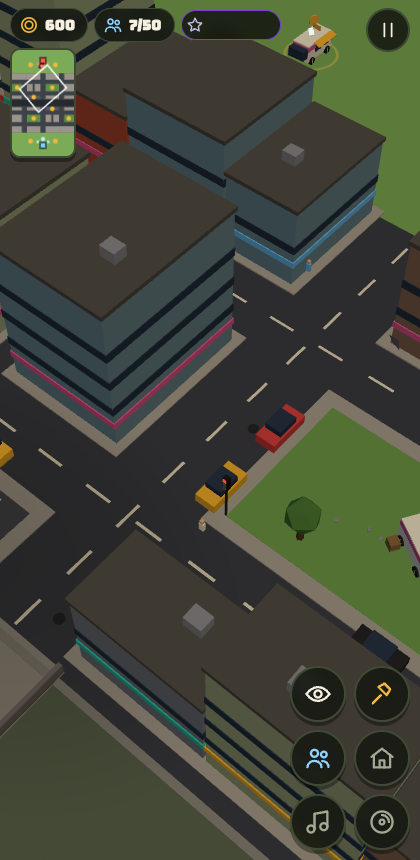
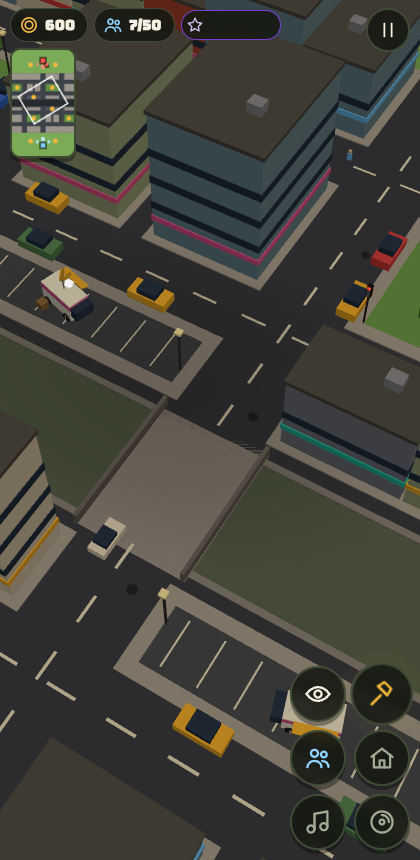
B119: Menu backdrop: while the menu is up (on load and after quitting/finishing a match), the camera eases to the city centre, pulls out and slowly circles it, so the live city turns behind the faction cards
Claude-Session: https://claude.ai/code/session_01FXzpagnksiDmMAqP3MTiXJ

diff --git a/src/main.js b/src/main.js
@@ -1,22 +1,22 @@
 // Entry point: wires sim + render + input + UI and runs the fixed-step loop.
-import { renderer, scene, camera, followSun, THREE, setTimeOfDay, sun } from './render/scene.js?v=118';
-import { buildWorld, updateWorld, setDusk, setRain, setLowWorld } from './render/world.js?v=118';
-import { syncRender, clearRender, bump } from './render/sync.js?v=118';
-import { handleEvents, updateFx, clearFx } from './fx/fx.js?v=118';
-import { newSim, getSim, step } from './sim/sim.js?v=118';
-import { TICK } from './config/factions.js?v=118';
-import { CAM, applyCam, resetCam, onResize } from './camera/camera.js?v=118';
-import { initInput, lockPageZoom } from './input/input.js?v=118';
-import { refreshHUD, resetHUD, updatePlaceBar } from './ui/hud.js?v=118';
-import { resetUI } from './ui/state.js?v=118';
-import { fillIcons, svg } from './ui/icons.js?v=118';
-import { noteAlerts, updateAlert, clearAlert } from './ui/alert.js?v=118';
-import { updateMinimap } from './ui/minimap.js?v=118';
-import { isMuted, setMuted } from './fx/sfx.js?v=118';
-import { loadChars } from './render/chars.js?v=118';
-import { FC } from './render/models.js?v=118';
+import { renderer, scene, camera, followSun, THREE, setTimeOfDay, sun } from './render/scene.js?v=119';
+import { buildWorld, updateWorld, setDusk, setRain, setLowWorld } from './render/world.js?v=119';
+import { syncRender, clearRender, bump } from './render/sync.js?v=119';
+import { handleEvents, updateFx, clearFx } from './fx/fx.js?v=119';
+import { newSim, getSim, step } from './sim/sim.js?v=119';
+import { TICK } from './config/factions.js?v=119';
+import { CAM, applyCam, resetCam, onResize } from './camera/camera.js?v=119';
+import { initInput, lockPageZoom } from './input/input.js?v=119';
+import { refreshHUD, resetHUD, updatePlaceBar } from './ui/hud.js?v=119';
+import { resetUI } from './ui/state.js?v=119';
+import { fillIcons, svg } from './ui/icons.js?v=119';
+import { noteAlerts, updateAlert, clearAlert } from './ui/alert.js?v=119';
+import { updateMinimap } from './ui/minimap.js?v=119';
+import { isMuted, setMuted } from './fx/sfx.js?v=119';
+import { loadChars } from './render/chars.js?v=119';
+import { FC } from './render/models.js?v=119';
 
-export const BUILD = 118; // written by `npm run bump`
+export const BUILD = 119; // written by `npm run bump`
 lockPageZoom();
 fillIcons();
 buildWorld();
@@ -173,6 +173,8 @@ function frame(now) {
   if (hudT <= 0) { hudT = 0.15; refreshHUD(); }
   cinema(dt);
   introCam(dt);
+  // Menu backdrop: while the menu is up, the camera drifts to the city centre and slowly circles it.
+  if (!running && !menu.hidden) { cin = null; const k = Math.min(1, dt * 0.6); CAM.tx += (0 - CAM.tx) * k; CAM.tz += (0 - CAM.tz) * k; CAM.distT = 95; CAM.yaw += dt * 0.07; }
   // The day wears on: morning at the start, golden hour by ~11 minutes in; lamps and windows come on in the last half.
   if (S && running) { const k = Math.min(1, Math.max(0, (S.t - 60) / 600)); if (Math.abs(k - (frame.tod ?? -1)) > 0.002) { frame.tod = k; setTimeOfDay(k); setDusk(Math.max(0, k * 2 - 1)); } }
   else if (!S && frame.tod) { frame.tod = 0; setTimeOfDay(0); setDusk(0); }

diff --git a/index.html b/index.html
@@ -6,7 +6,7 @@
 <meta name="viewport" content="width=device-width,initial-scale=1,maximum-scale=1,user-scalable=no,viewport-fit=cover">
 <link rel="preconnect" href="https://fonts.googleapis.com">
 <link rel="stylesheet" href="https://fonts.googleapis.com/css2?family=Bungee&family=Lilita+One&display=swap">
-<link rel="stylesheet" href="./src/ui/style.css?v=118">
+<link rel="stylesheet" href="./src/ui/style.css?v=119">
 <!-- No build step needed: GitHub Pages serves this file straight from main, so bare 'three' imports resolve here. -->
 <script type="importmap">
 { "imports": { "three": "./vendor/three/three.module.min.js", "three/examples/jsm/": "./vendor/three/jsm/" } }
@@ -35,7 +35,7 @@
 <div id="box"></div>
 <div id="holdRing" hidden></div>
 <div id="menu" class="overlay">
-  <h1>Culture <em>Wars</em><span>GREYBOX 04 · <b id="build">B118</b></span></h1>
+  <h1>Culture <em>Wars</em><span>GREYBOX 04 · <b id="build">B119</b></span></h1>
   <div class="diff" id="diff"><button type="button" data-d="0" aria-label="Easy"><span class="ic" data-i="star"></span></button><button type="button" data-d="1" class="on" aria-label="Normal"><span class="ic" data-i="star"></span><span class="ic" data-i="star"></span></button><button type="button" data-d="2" aria-label="Hard"><span class="ic" data-i="star"></span><span class="ic" data-i="star"></span><span class="ic" data-i="star"></span></button><i class="sep"></i><button type="button" class="mode" data-m="vs" aria-label="Versus"><span class="ic" data-i="home"></span></button><button type="button" class="mode" data-m="hill" aria-label="King of the Hill"><span class="ic" data-i="flag"></span></button><button type="button" class="mode" data-m="cap" aria-label="Capture and Hold"><span class="ic" data-i="hold"></span></button><button type="button" class="mode" data-m="race" aria-label="Resource Race"><span class="ic" data-i="coin"></span></button><button type="button" class="mode" data-m="hero" aria-label="Hero vs Hero"><span class="ic" data-i="hero"></span></button></div>
   <div class="picks">
     <button class="pick" data-f="bw" type="button"><span class="ic" data-i="truck"></span>Backwoods<small>FEWER · TOUGHER</small></button>
@@ -65,6 +65,6 @@
   setTimeout(function () { if (!window.__cwBooted) show('Game script did not start (old cached file? wait a few minutes and reload)'); }, 8000);
 })();
 </script>
-<script type="module" src="./src/main.js?v=118" onerror="__cwLoadFail()"></script>
+<script type="module" src="./src/main.js?v=119" onerror="__cwLoadFail()"></script>
 </body>
 </html>

diff --git a/src/render/sync.js b/src/render/sync.js
@@ -1,19 +1,19 @@
 // Mirrors sim state into the scene every frame. Reads the sim, never writes to it.
-import { THREE, scene, camera, mat, box, basic, ringMesh, disposeObj, casts } from './scene.js?v=118';
-import { makeMember, bldMesh, nodeMesh, formation, FC } from './models.js?v=118';
-import { makeChar, charsReady, play, CAST } from './chars.js?v=118';
-import { emit } from '../fx/particles.js?v=118';
-import { bark } from '../fx/sfx.js?v=118';
-import { TICK } from '../config/factions.js?v=118';
-import { walkH } from '../map/layout.js?v=118';
-import { NODE_AMOUNT, BLD, BUILD_RADIUS, FACTIONS } from '../config/factions.js?v=118';
-import { CAM } from '../camera/camera.js?v=118';
+import { THREE, scene, camera, mat, box, basic, ringMesh, disposeObj, casts } from './scene.js?v=119';
+import { makeMember, bldMesh, nodeMesh, formation, FC } from './models.js?v=119';
+import { makeChar, charsReady, play, CAST } from './chars.js?v=119';
+import { emit } from '../fx/particles.js?v=119';
+import { bark } from '../fx/sfx.js?v=119';
+import { TICK } from '../config/factions.js?v=119';
+import { walkH } from '../map/layout.js?v=119';
+import { NODE_AMOUNT, BLD, BUILD_RADIUS, FACTIONS } from '../config/factions.js?v=119';
+import { CAM } from '../camera/camera.js?v=119';
 const fac0 = (S) => FACTIONS[S.players[0].f];
-import { Q, pl, getSim } from '../sim/sim.js?v=118';
-import { UI } from '../ui/state.js?v=118';
-import { fxConfetti, fxDeath } from '../fx/fx.js?v=118';
+import { Q, pl, getSim } from '../sim/sim.js?v=119';
+import { UI } from '../ui/state.js?v=119';
+import { fxConfetti, fxDeath } from '../fx/fx.js?v=119';
 import { mergeGeometries } from 'three/examples/jsm/utils/BufferGeometryUtils.js';
-import { lerpAngle } from '../util/math.js?v=118';
+import { lerpAngle } from '../util/math.js?v=119';
 // Selection rings take your faction colour, washed toward white so they still pop on any ground.
 const selCol = () => { const S = getSim(), f = S && S.players[0].f; return f ? new THREE.Color(FC[f].main).lerp(new THREE.Color(0xffffff), 0.35).getHex() : 0xffffff; };
 

diff --git a/src/ui/hud.js b/src/ui/hud.js
@@ -1,15 +1,15 @@
 // HUD: resource chips, context panel, command buttons, floating placement confirm, long-press labels.
 // Buttons are described as data ("specs") each refresh; the DOM is rebuilt only when the set of buttons changes.
 // Every action goes through sim.command(); Q.* is used only for instant feedback (shake, dim).
-import { svg } from './icons.js?v=118';
-import { UI, select, selSquads } from './state.js?v=118';
-import { getSim, pl, fac, Q, command, count, cpUsed, cpCap, hqOf } from '../sim/sim.js?v=118';
-import { BLD, BUILD_KINDS, TRAIN_SLOTS, UPG, REQ } from '../config/factions.js?v=118';
-import { CAM, toggleView, focus } from '../camera/camera.js?v=118';
-import { camera } from '../render/scene.js?v=118';
-import { walkH } from '../map/layout.js?v=118';
-import { THREE } from '../render/scene.js?v=118';
-import { showHint } from './hint.js?v=118';
+import { svg } from './icons.js?v=119';
+import { UI, select, selSquads } from './state.js?v=119';
+import { getSim, pl, fac, Q, command, count, cpUsed, cpCap, hqOf } from '../sim/sim.js?v=119';
+import { BLD, BUILD_KINDS, TRAIN_SLOTS, UPG, REQ } from '../config/factions.js?v=119';
+import { CAM, toggleView, focus } from '../camera/camera.js?v=119';
+import { camera } from '../render/scene.js?v=119';
+import { walkH } from '../map/layout.js?v=119';
+import { THREE } from '../render/scene.js?v=119';
+import { showHint } from './hint.js?v=119';
 
 const panelEl = document.getElementById('panel'), cmdEl = document.getElementById('cmd'), queueEl = document.getElementById('queue');
 const placeBar = document.getElementById('placeBar'), tipEl = document.getElementById('tip');

diff --git a/src/input/input.js b/src/input/input.js
@@ -4,13 +4,13 @@
 //   hold then drag  = box select
 //   2 fingers       = pinch zoom + twist to rotate + drag to pan
 //   mouse: right-drag = box select, wheel = zoom; keys WASD/arrows pan, Q/E rotate, V ghost cam, Esc cancel
-import { THREE, camera, canvas } from '../render/scene.js?v=118';
-import { walkH } from '../map/layout.js?v=118';
-import { getSim, command } from '../sim/sim.js?v=118';
-import { UI, select, selSquads } from '../ui/state.js?v=118';
-import { CAM, panBy, clampCam, toggleView, pxPerUnit } from '../camera/camera.js?v=118';
-import { fxMarker } from '../fx/fx.js?v=118';
-import { ack } from '../render/sync.js?v=118';
+import { THREE, camera, canvas } from '../render/scene.js?v=119';
+import { walkH } from '../map/layout.js?v=119';
+import { getSim, command } from '../sim/sim.js?v=119';
+import { UI, select, selSquads } from '../ui/state.js?v=119';
+import { CAM, panBy, clampCam, toggleView, pxPerUnit } from '../camera/camera.js?v=119';
+import { fxMarker } from '../fx/fx.js?v=119';
+import { ack } from '../render/sync.js?v=119';
 
 const ray = new THREE.Raycaster(), ndc = new THREE.Vector2(), tmp = new THREE.Vector3();
 export function groundAt(cx, cy) {

diff --git a/src/fx/fx.js b/src/fx/fx.js
@@ -1,12 +1,12 @@
 // Visual effects. Reads sim events, never changes the sim.
 // To add an effect for a new mechanic: emit S.events.push({k:'myThing', ...}) in the sim,
 // then add a case in handleEvents below.
-import { THREE, scene, mat, cyl, basic, disposeObj } from '../render/scene.js?v=118';
-import { walkH } from '../map/layout.js?v=118';
-import { sfx } from './sfx.js?v=118';
-import { shake, CAM } from '../camera/camera.js?v=118';
-import { FC } from '../render/models.js?v=118';
-import { emit, updateParticles, clearParticles, burstHit, burstShot, burstCoins } from './particles.js?v=118';
+import { THREE, scene, mat, cyl, basic, disposeObj } from '../render/scene.js?v=119';
+import { walkH } from '../map/layout.js?v=119';
+import { sfx } from './sfx.js?v=119';
+import { shake, CAM } from '../camera/camera.js?v=119';
+import { FC } from '../render/models.js?v=119';
+import { emit, updateParticles, clearParticles, burstHit, burstShot, burstCoins } from './particles.js?v=119';
 
 const fx = [];
 function addFx(obj, life, upd) { scene.add(obj); fx.push({ obj, life, t: 0, upd }); }

diff --git a/src/render/world.js b/src/render/world.js
@@ -1,10 +1,10 @@
 // Static city: streets, sidewalks, buildings, parks, freeway trench + overpasses, ambient traffic.
 // Built once from map/layout.js. Mostly InstancedMesh so it stays cheap on phones.
-import { THREE, scene, mat, box, setOvercast } from './scene.js?v=118';
-import { CAM } from '../camera/camera.js?v=118';
-import { MAP, BLOCKS, TREES, PARKED, TRENCH, OVERPASSES, AVENUES, CROSS_STREETS, HOME_Z, inRect, walkH } from '../map/layout.js?v=118';
-import { hash } from '../util/math.js?v=118';
-import { emit } from '../fx/particles.js?v=118';
+import { THREE, scene, mat, box, setOvercast } from './scene.js?v=119';
+import { CAM } from '../camera/camera.js?v=119';
+import { MAP, BLOCKS, TREES, PARKED, TRENCH, OVERPASSES, AVENUES, CROSS_STREETS, HOME_Z, inRect, walkH } from '../map/layout.js?v=119';
+import { hash } from '../util/math.js?v=119';
+import { emit } from '../fx/particles.js?v=119';
 
 const COL = {
   asphalt: 0x3d4148, sidewalk: 0xa8a49a, grass: 0x6f9e50, lawn: 0x7cab58, lot: 0x4b4f56, stripe: 0xe8e2c8,

diff --git a/src/sim/sim.js b/src/sim/sim.js
@@ -9,11 +9,11 @@
 import {
   TICK, START_CASH, BUILD_RADIUS, MAX_WORKERS, NODE_AMOUNT, GATHER_T, CARRY, BASE_INCOME, DEPOT_INCOME,
   COUNTER, REQ, UPG, UPT, BLD, FACTIONS,
-} from '../config/factions.js?v=118';
-import { MAP, NODES, BASES, walkH } from '../map/layout.js?v=118';
-import { markCircle, isBlocked, lineClear, nearestFree, findPath, blocked, cellOf, cellCenter, inGrid } from '../map/grid.js?v=118';
-import { mulberry32 } from '../util/math.js?v=118';
-import { aiStep } from './ai.js?v=118';
+} from '../config/factions.js?v=119';
+import { MAP, NODES, BASES, walkH } from '../map/layout.js?v=119';
+import { markCircle, isBlocked, lineClear, nearestFree, findPath, blocked, cellOf, cellCenter, inGrid } from '../map/grid.js?v=119';
+import { mulberry32 } from '../util/math.js?v=119';
+import { aiStep } from './ai.js?v=119';
 
 let S = null;
 export const getSim = () => S;

diff --git a/src/ui/minimap.js b/src/ui/minimap.js
@@ -1,8 +1,8 @@
 // Minimap, top-left under the resource chips. Fixed orientation: your base at the bottom (+z), enemy at the top.
 // Tap or drag on it to move the camera there. Static city is drawn once; units/buildings redraw ~10x a second.
-import { MAP, BLOCKS, TRENCH } from '../map/layout.js?v=118';
-import { CAM, focus } from '../camera/camera.js?v=118';
-import { getSim } from '../sim/sim.js?v=118';
+import { MAP, BLOCKS, TRENCH } from '../map/layout.js?v=119';
+import { CAM, focus } from '../camera/camera.js?v=119';
+import { getSim } from '../sim/sim.js?v=119';
 
 const cv = document.getElementById('mini'), ctx = cv.getContext('2d');
 const bg = document.createElement('canvas'), bctx = bg.getContext('2d');

diff --git a/src/ui/alert.js b/src/ui/alert.js
@@ -1,9 +1,9 @@
 // Under-attack alert: when something of yours is hit somewhere the camera is not looking, a red arrow pulses on
 // the screen edge pointing at it. Tap the arrow to fly there. Newest fight wins; it fades 5 s after the last hit.
-import { THREE, camera } from '../render/scene.js?v=118';
-import { walkH } from '../map/layout.js?v=118';
-import { focus } from '../camera/camera.js?v=118';
-import { svg } from './icons.js?v=118';
+import { THREE, camera } from '../render/scene.js?v=119';
+import { walkH } from '../map/layout.js?v=119';
+import { focus } from '../camera/camera.js?v=119';
+import { svg } from './icons.js?v=119';
 
 const el = document.getElementById('alert');
 el.innerHTML = svg('up');

diff --git a/src/render/chars.js b/src/render/chars.js
@@ -2,7 +2,7 @@
 // clips drives all of them: the clips come from three DONOR files and are retargeted onto each rig by bone name.
 // Nothing here is required: until the files load (or if they fail, e.g. the single-file artifact build) the
 // box placeholders in models.js are used, and sync.js swaps squads over once this reports ready.
-import { THREE } from './scene.js?v=118';
+import { THREE } from './scene.js?v=119';
 import { GLTFLoader } from 'three/examples/jsm/loaders/GLTFLoader.js';
 import { DRACOLoader } from 'three/examples/jsm/loaders/DRACOLoader.js';
 import { clone as skClone } from 'three/examples/jsm/utils/SkeletonUtils.js';

diff --git a/src/render/models.js b/src/render/models.js
@@ -2,7 +2,7 @@
 // SWAP POINT FOR REAL ART: replace makeMember / bldMesh / nodeMesh bodies with GLB clones.
 // Keep the same contract: return a THREE.Group, feet at y=0, facing +z, roughly to the scale below
 // (humans ~1.6 m, monster truck ~3 m long). userData.legs (optional) = [leftLeg, rightLeg] for walk swing.
-import { THREE, box, cyl, mat } from './scene.js?v=118';
+import { THREE, box, cyl, mat } from './scene.js?v=119';
 
 export const FC = {
   bw: { main: 0xe8792b, dark: 0x5a3a22, skin: 0xf2c9a0, alt: 0x3d5a80, hair: 0x4a2e1a },
